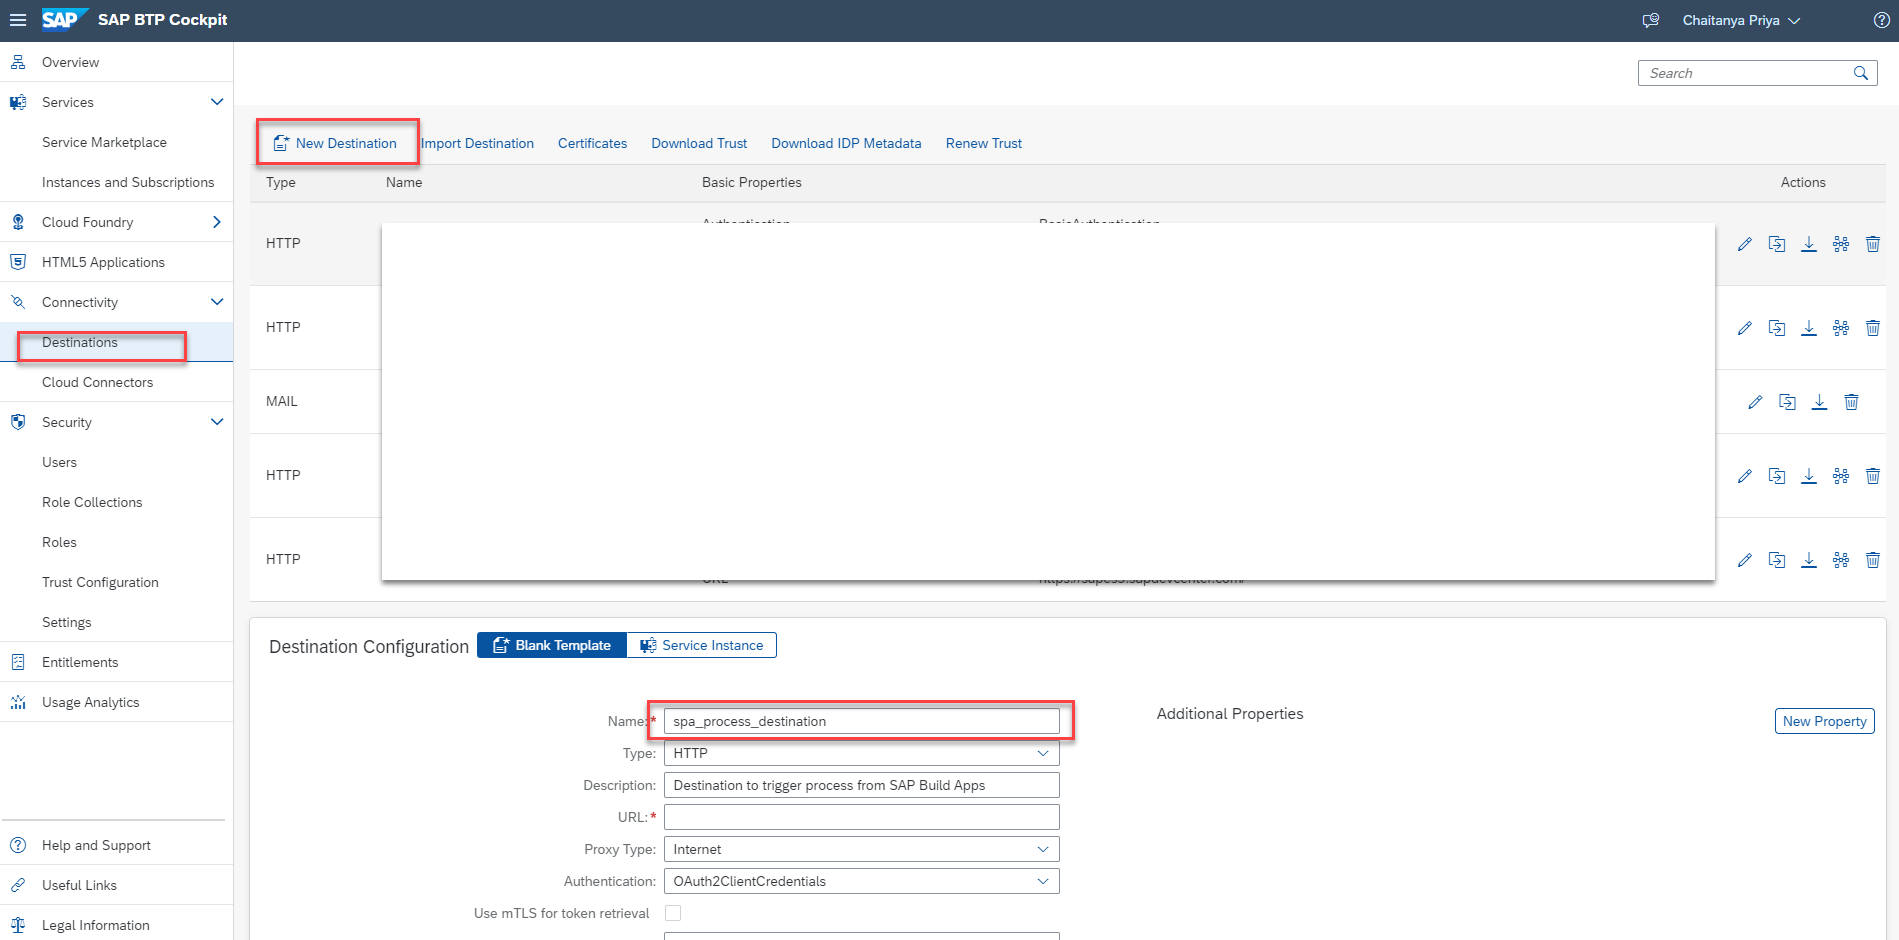
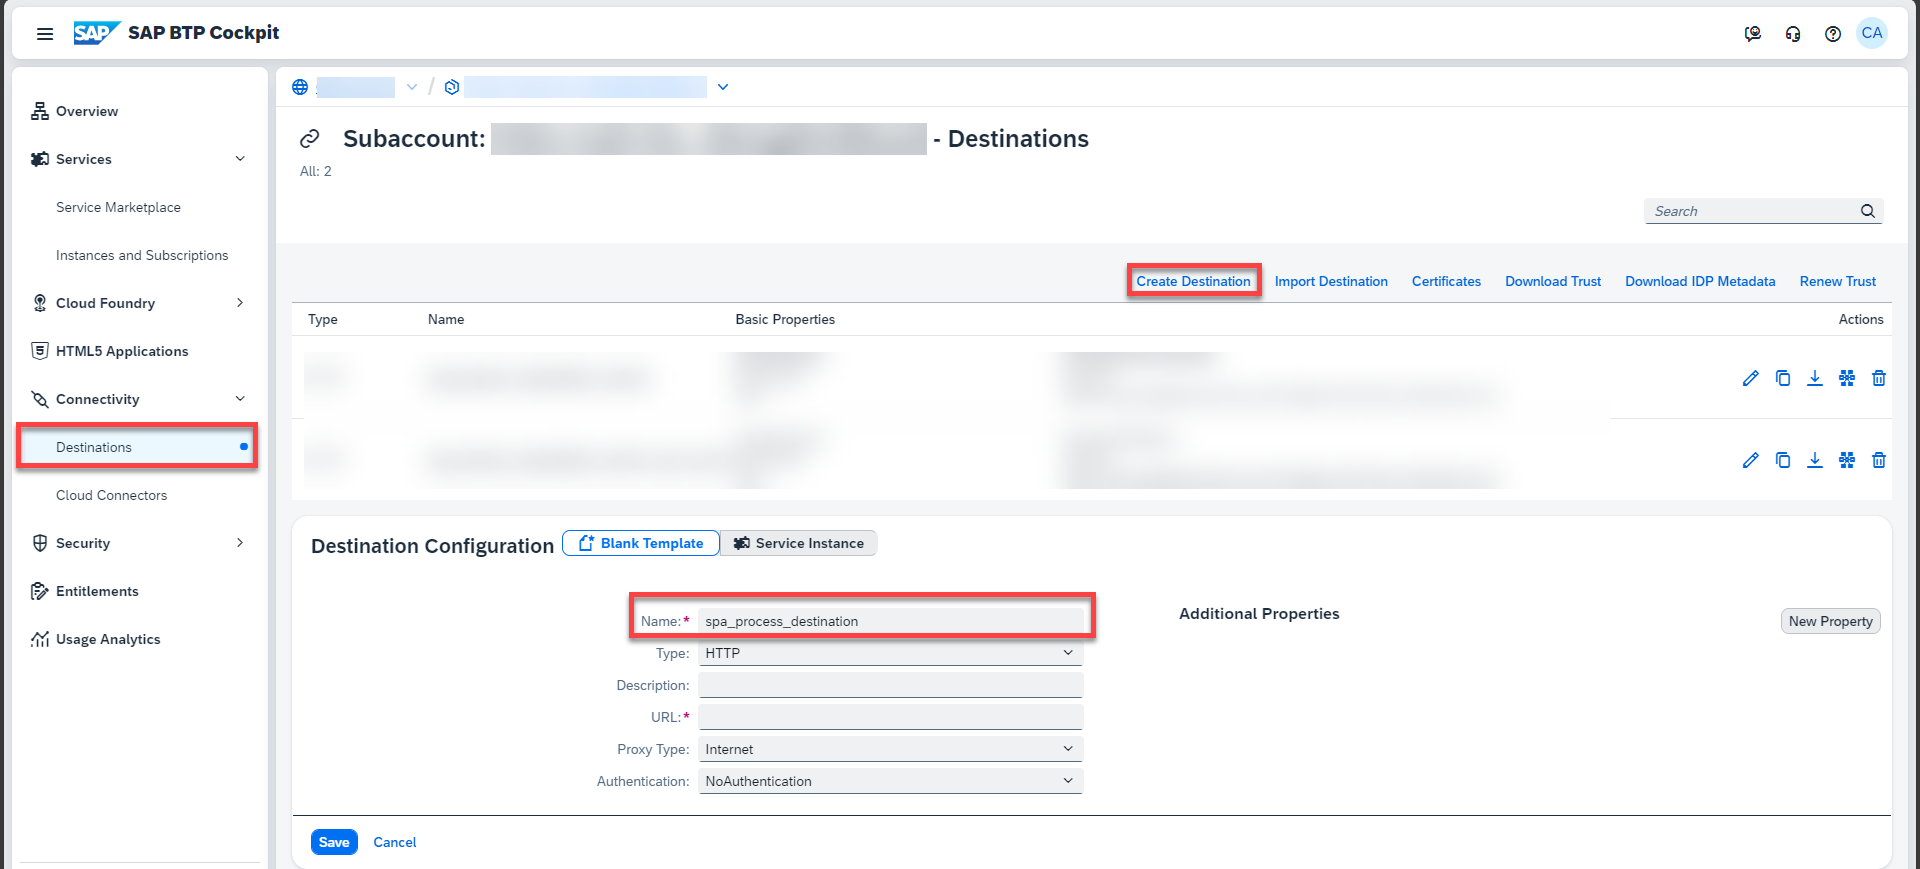
updates done to instance, service key and destination sections

diff --git a/tutorials/spa-create-service-instance-destination/spa-create-service-instance-destination.md b/tutorials/spa-create-service-instance-destination/spa-create-service-instance-destination.md
@@ -9,12 +9,12 @@ tags: [ tutorial>beginner, software-product>sap-business-technology-platform, tu
 primary_tag: software-product>sap-build-process-automation
 ---
 
-# Create Destination to Trigger Process from any Service
+# Create Destination to Trigger Process From any Service
 <!-- description --> Create a destination to trigger a business process by creating a service instance and service key of SAP Build Process Automation.
 
 ## Prerequisites
-- Account on [SAP BTP](btp-free-tier-account) to try out Free Tier service plans
-- Subscribe to [SAP Build Process Automation](spa-subscribe-booster) using booster in SAP BTP Free Tier
+- Subscribe to [SAP Build Process Automation](spa-subscribe-booster) using booster in SAP BTP Free Tier **OR**
+- Subscribe to [SAP Build Process Automation](spa-subscribe-free-trial) using SAP BTP Free Trial
 - Proper roles to create service instance, service key and destinations in SAP BTP Cockpit
 
 ## You will learn
@@ -32,9 +32,11 @@ Once you have successfully subscribed to SAP Build Process Automation in SAP BTP
 
 <!-- border --> ![SBPA Service](1.png)
 
+> **IMPORTANT:** If you are using a SAP BTP Free Trial account, the Instance **SPA-instance** and the Key **SBPA key** get automatically created when you subscribe to SAP Build Process Automation in SAP BTP Cockpit. You will find the Instance under **Instances and Subscriptions > Instances**. Please skip to step 2.3 to retrieve the credentials of your key. 
+
 1. Let's create an **Instance** for SAP Build Process Automation. Choose **Create**.
 
-2. Select the Service as **SAP Build Process Automation** and plan as **standard instance**. Choose **Next**.
+2. Select the Service as **SAP Build Process Automation** and plan as **standard instance**.
 
     <!-- border --> ![Create](2.png)
 
@@ -80,7 +82,7 @@ Once you have successfully subscribed to SAP Build Process Automation in SAP BTP
 
 ### Create a destination to trigger process
 
-1. Navigate to **Destinations** > **New Destination**. Enter the destination name as `spa_process_destination`.
+1. Navigate to **Destinations** > **Create Destination**. Enter the destination name as `spa_process_destination`.
 
     <!-- border --> ![Create](10.png)
 
